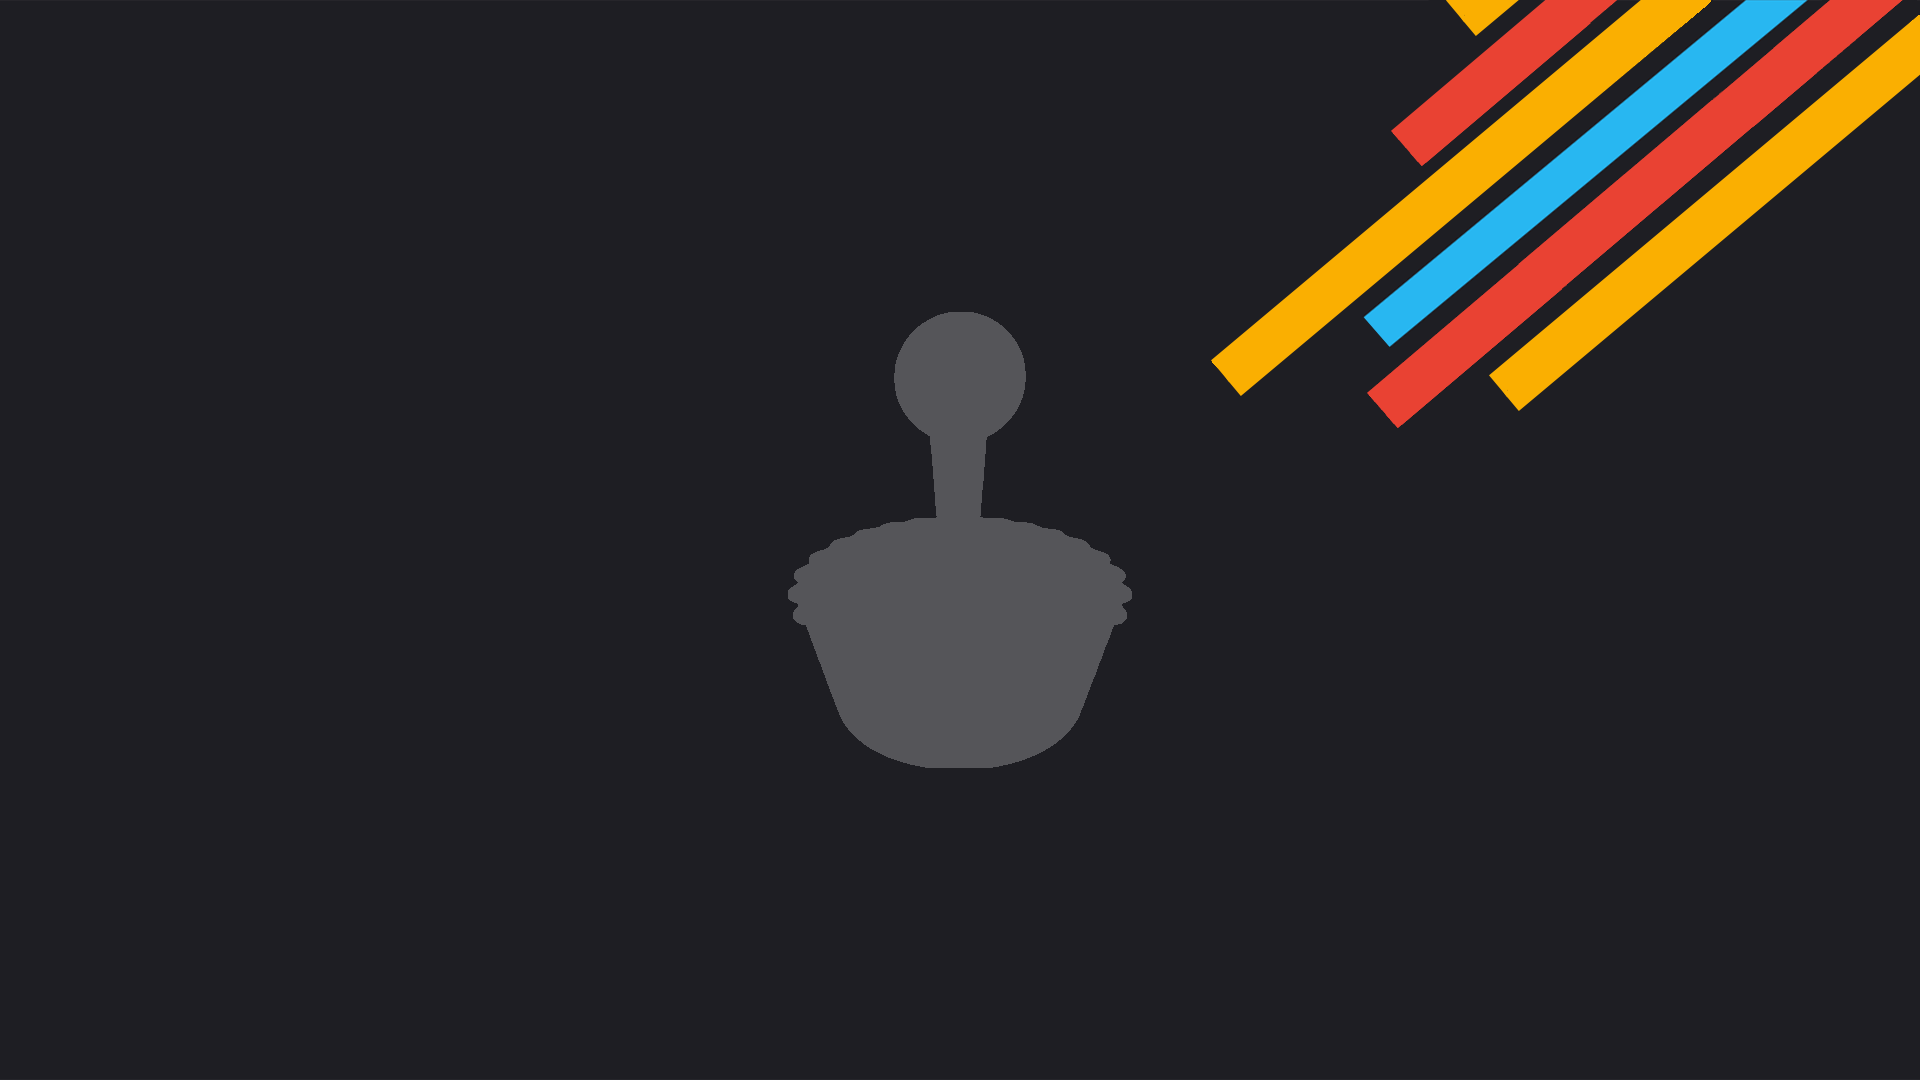
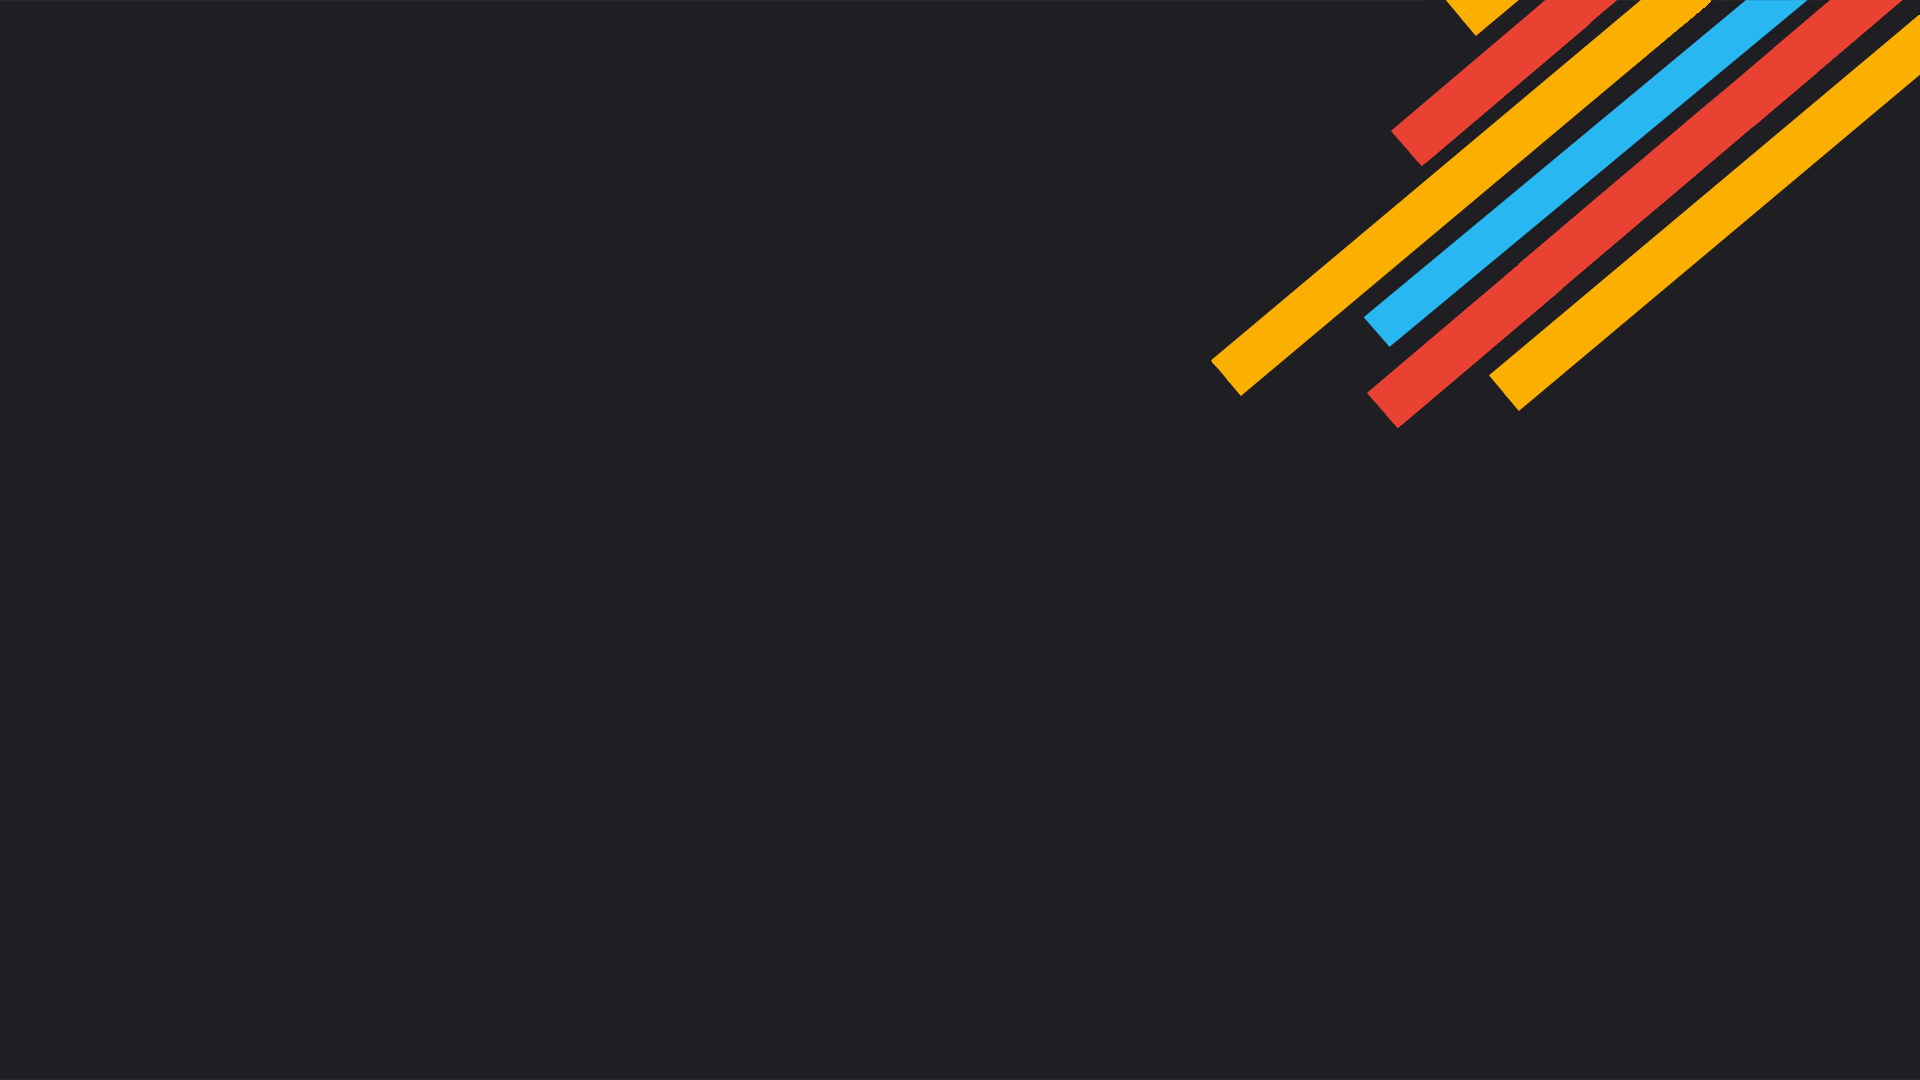
[ade-verd] beautiful create player page

Changed region(s): [[0.4062, 0.275, 0.5938, 0.7333]]

diff --git a/src/client/components/CreatePlayer/CreatePlayer.js b/src/client/components/CreatePlayer/CreatePlayer.js
@@ -1,8 +1,14 @@
 import React from 'react';
 
+import { library as fontAwesomeLibrary } from '@fortawesome/fontawesome-svg-core';
+import { FontAwesomeIcon } from '@fortawesome/react-fontawesome';
+import { faUserPlus } from '@fortawesome/free-solid-svg-icons';
+
 import { store } from '../../index';
 
 import { emitCreatePlayer } from '../../actions/players/createPlayer';
+
+import './CreatePlayer.css';
 
 const createPlayer = event => {
     if (event.key === 'Enter') {
@@ -11,10 +17,24 @@ const createPlayer = event => {
 };
 
 const CreatePlayer = ({}) => {
+    fontAwesomeLibrary.add(faUserPlus);
+
     return (
-        <div>
+        <div className="container">
+            <div className="icon-container'">
+                <FontAwesomeIcon className="fa" icon={['fas', 'user-plus']} size="8x" />
+            </div>
+            <br />
             <label>Create player:</label>
-            <input type="text" id="name" onKeyDown={createPlayer} required />
+            <br />
+            <input
+                type="text"
+                id="name"
+                onKeyDown={createPlayer}
+                autoComplete="off"
+                spellCheck="false"
+                required
+            />
         </div>
     );
 };

diff --git a/src/client/components/CreatePlayer/CreatePlayer.css b/src/client/components/CreatePlayer/CreatePlayer.css
@@ -1,0 +1,23 @@
+.container {
+    margin-top: 50vh; /* poussé de la moitié de hauteur de viewport */
+    transform: translateY(-100%); /* tiré de la moitié de sa propre hauteur */
+    color: #fff;
+    text-align: center;
+}
+
+.fa {
+    color: #555559;
+}
+
+input[type='text'] {
+    background: transparent;
+    border-radius: 5px;
+    border: 2px solid #fff;
+    color: #fff;
+    text-align: center;
+}
+input[type='text']:focus {
+    border: 2px solid #34b8ee;
+    border-radius: 5px;
+    outline: none;
+}

diff --git a/src/client/actions/notifications/index.js b/src/client/actions/notifications/index.js
@@ -2,13 +2,15 @@ import React from 'react';
 import { toast } from 'react-toastify';
 
 import 'react-toastify/dist/ReactToastify.css';
+import './notifications.css';
 
 export const configureNotificationContainer = () =>
     toast.configure({
+        position: 'bottom-right',
         autoClose: 4000,
         draggable: false,
         hideProgressBar: false,
-        newestOnTop: false,
+        newestOnTop: true,
         closeOnClick: true,
         pauseOnHover: true,
     });

diff --git a/src/client/index.css b/src/client/index.css
@@ -6,8 +6,11 @@
 
 body {
     margin: 0;
-    /*    background-color: #000;
-    background-image: url('./assets/img/bg.png'); */
+
+    background-color: #1e1e23;
+    background-image: url('./assets/img/bg_retropie.png');
+    background-repeat: no-repeat;
+    background-size: 100%;
     font-family: 'arcade' !important;
 }
 

diff --git a/src/client/containers/Home.container.js b/src/client/containers/Home.container.js
@@ -1,6 +1,6 @@
 import { connect } from 'react-redux';
 
-import Home from '../components/Home/Home';
+import Home from '../components/Home/CreatePlayer';
 
 import { emitCreatePlayer, onPlayerCreated } from '../actions/players/createPlayer';
 

diff --git a/src/client/actions/notifications/notifications.css b/src/client/actions/notifications/notifications.css
@@ -1,0 +1,8 @@
+.Toastify__toast--warning {
+    background: #f8ae2a !important;
+    color: #fff;
+}
+.Toastify__toast--error {
+    background: #e6443a !important;
+    color: #fff;
+}
